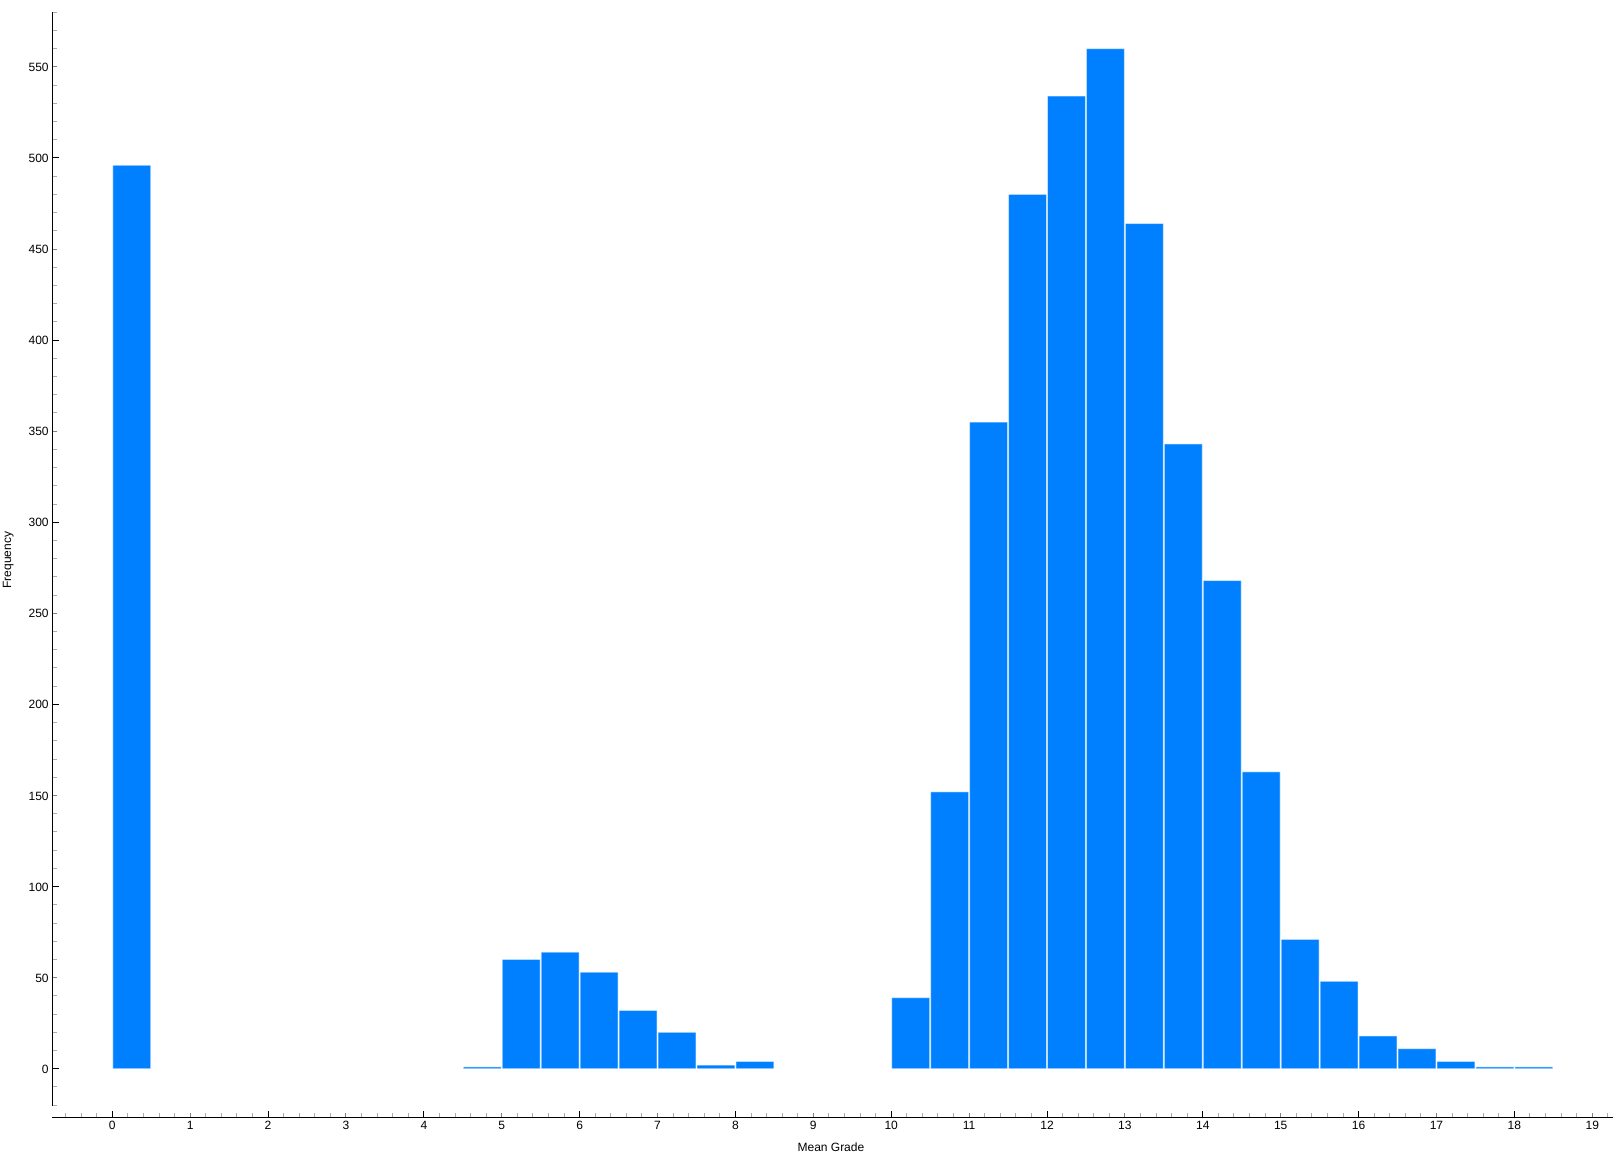
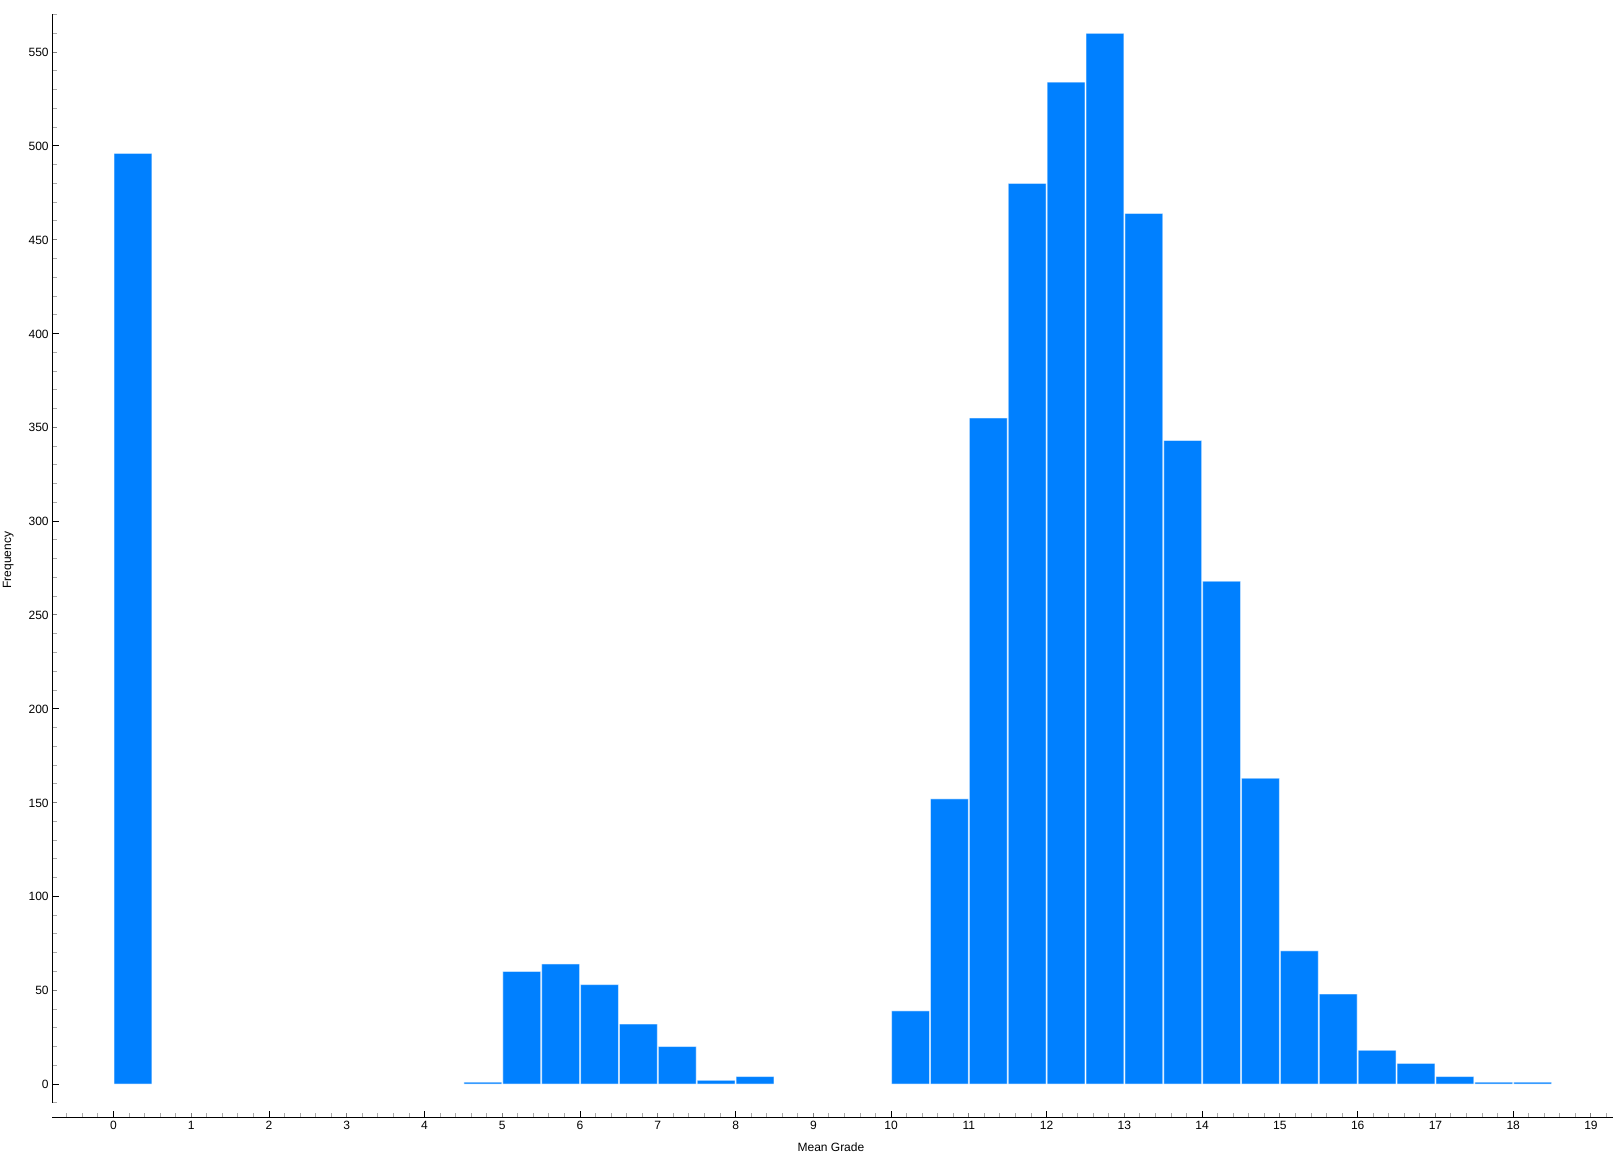
change image file types

diff --git a/Case Study Analytics in Education.md b/Case Study Analytics in Education.md
@@ -75,43 +75,43 @@ A few new features were added to the dataset. These features are derived from th
 
 ##### Distribution of Mean Grades
 
-![Mean Grades](https://raw.githubusercontent.com/HowDoIGitHelp/COMPED20/refs/heads/master/assets/Charts/CaseStudy1Viz1.svg)
+![Mean Grades](https://raw.githubusercontent.com/HowDoIGitHelp/COMPED20/refs/heads/master/assets/Charts/CaseStudy1Viz1.png)
 
 The chart above shows the distribution of mean grades. As seen here, mean grades grouped into three distinct groups, also known as a trimodal distribution. There is a large distribution of students that have a mean grade around 13, while there is also a significant number of students that end up with a mean grade of 0. But there is also a small but distinct group of students that have a mean grade of around 6.
 
 ##### Comparing Mean Grades and Student Gender
 
-![Mean Grades vs Gender](https://raw.githubusercontent.com/HowDoIGitHelp/COMPED20/refs/heads/master/assets/Charts/CaseStudy1Viz2.svg)
+![Mean Grades vs Gender](https://raw.githubusercontent.com/HowDoIGitHelp/COMPED20/refs/heads/master/assets/Charts/CaseStudy1Viz2.png)
 
 When comparing the grades of male students and female students, we can see that there is a noticeable difference between their descriptive statistics. Female students have a higher mean and median grade (11.47 and 12.5 respectively) while male students have a mean and median grade of 9.74 and 11.8. It is also interesting to see that while there are more female than male students, the the grades of male students are more dispersed with a stdev of 5.056 compared to the female students grades which has a stdev of 3.89.
 
 ##### Comparing Previous Qualification (grade) and Target (Academic Outcome)
 
-![PQ Grade vs Target](https://raw.githubusercontent.com/HowDoIGitHelp/COMPED20/refs/heads/master/assets/Charts/CaseStudy1Viz3.svg)
+![PQ Grade vs Target](https://raw.githubusercontent.com/HowDoIGitHelp/COMPED20/refs/heads/master/assets/Charts/CaseStudy1Viz3.png)
 
 The previous qualification (grade), is the feature that describes the students grade from their previously attended school. It was checked whether theres a difference between the previous grades of students who end up graduating and students who end up dropping out. While theres some difference, the difference is very small. They have the same medians (133.1) and their means differ by about 0.8. This shows that the previous qualification grade of a student is not a strong indicator of a students academic outcome (whether a student graduates or drop out).
 
 ##### Comparing Mean Grades and Target (Academic Outcome)
 
-![Mean Grades vs Target](https://raw.githubusercontent.com/HowDoIGitHelp/COMPED20/refs/heads/master/assets/Charts/CaseStudy1Viz5.svg)
+![Mean Grades vs Target](https://raw.githubusercontent.com/HowDoIGitHelp/COMPED20/refs/heads/master/assets/Charts/CaseStudy1Viz5.png)
 
 When comparing the mean grades of students who graduated and students who dropped out. We can see that students who end up dropping out tend to have lower grades for their first and second semester. This shows that the early grades of a student can be used to predict students that might drop out. This information can be used by the institution to identify early which students need academic intervention.
 
 ##### Comparing Total Unapproved Units and Target (Academic Outcome)
 
-##### ![Total Unapproved Units vs Target](https://raw.githubusercontent.com/HowDoIGitHelp/COMPED20/refs/heads/master/assets/Charts/CaseStudy1Viz4.svg)
+##### ![Total Unapproved Units vs Target](https://raw.githubusercontent.com/HowDoIGitHelp/COMPED20/refs/heads/master/assets/Charts/CaseStudy1Viz4.png)
 
 The Total Unapproved Units can also be a good indicator of a students academic outcome. Students show tend to have a lot of dropped subjects in first and 2nd semesters, are at risk of dropping out. Just like the Early grades, this feature can also be used to identify students that need academic intervention.
 
 ##### Comparing Previous Qualifications and Mean Grade
 
-![Total Unapproved Units vs Target](https://raw.githubusercontent.com/HowDoIGitHelp/COMPED20/refs/heads/master/assets/Charts/CaseStudy1Viz6.svg)
+![Total Unapproved Units vs Target](https://raw.githubusercontent.com/HowDoIGitHelp/COMPED20/refs/heads/master/assets/Charts/CaseStudy1Viz6.png)
 
 The scatter plot above shows compares the previous qualification grade (x-axis) and mean grade (y-axis). The scatter plot shows three distinct groups of students similar to the mean grade distribution chart. This chart also shows that there is no direct relationship between the previous qualification grade and the mean grade. This shows that the student's previous qualifications are not reliable indicators of a students academic performance (at least for the 1st and 2nd semesters).
 
 ##### Comparing Previous Qualifications and Admission Grade
 
-![PQ grade vs Admission grade](https://raw.githubusercontent.com/HowDoIGitHelp/COMPED20/refs/heads/master/assets/Charts/CaseStudy1Viz7.svg)
+![PQ grade vs Admission grade](https://raw.githubusercontent.com/HowDoIGitHelp/COMPED20/refs/heads/master/assets/Charts/CaseStudy1Viz7.png)
 
 When comparing previous qualification grade (x-axis) and admission grade (y-axis), it shows that there is a direct relationship between the two feature. The higher the previous qualification grade, the higher the admission grade tends to be. This suggests that a students previous qualification grade is used to calculate the admission grade. 
 

diff --git a/Assignment2.md b/Assignment2.md
@@ -12,7 +12,7 @@ Here are the requirements for the proposals:
 3. Number of samples in the dataset
 4. Number of features in the dataset
 5. List of features, with descriptions for each feature
-6. Insights you are interested in finding from the dataset (descriptive or predictive insights)
+6. Insights you are interested in finding from the dataset (descriptive insights or predictive insights)
 
 You will need to submit **at least three** proposals.
 
